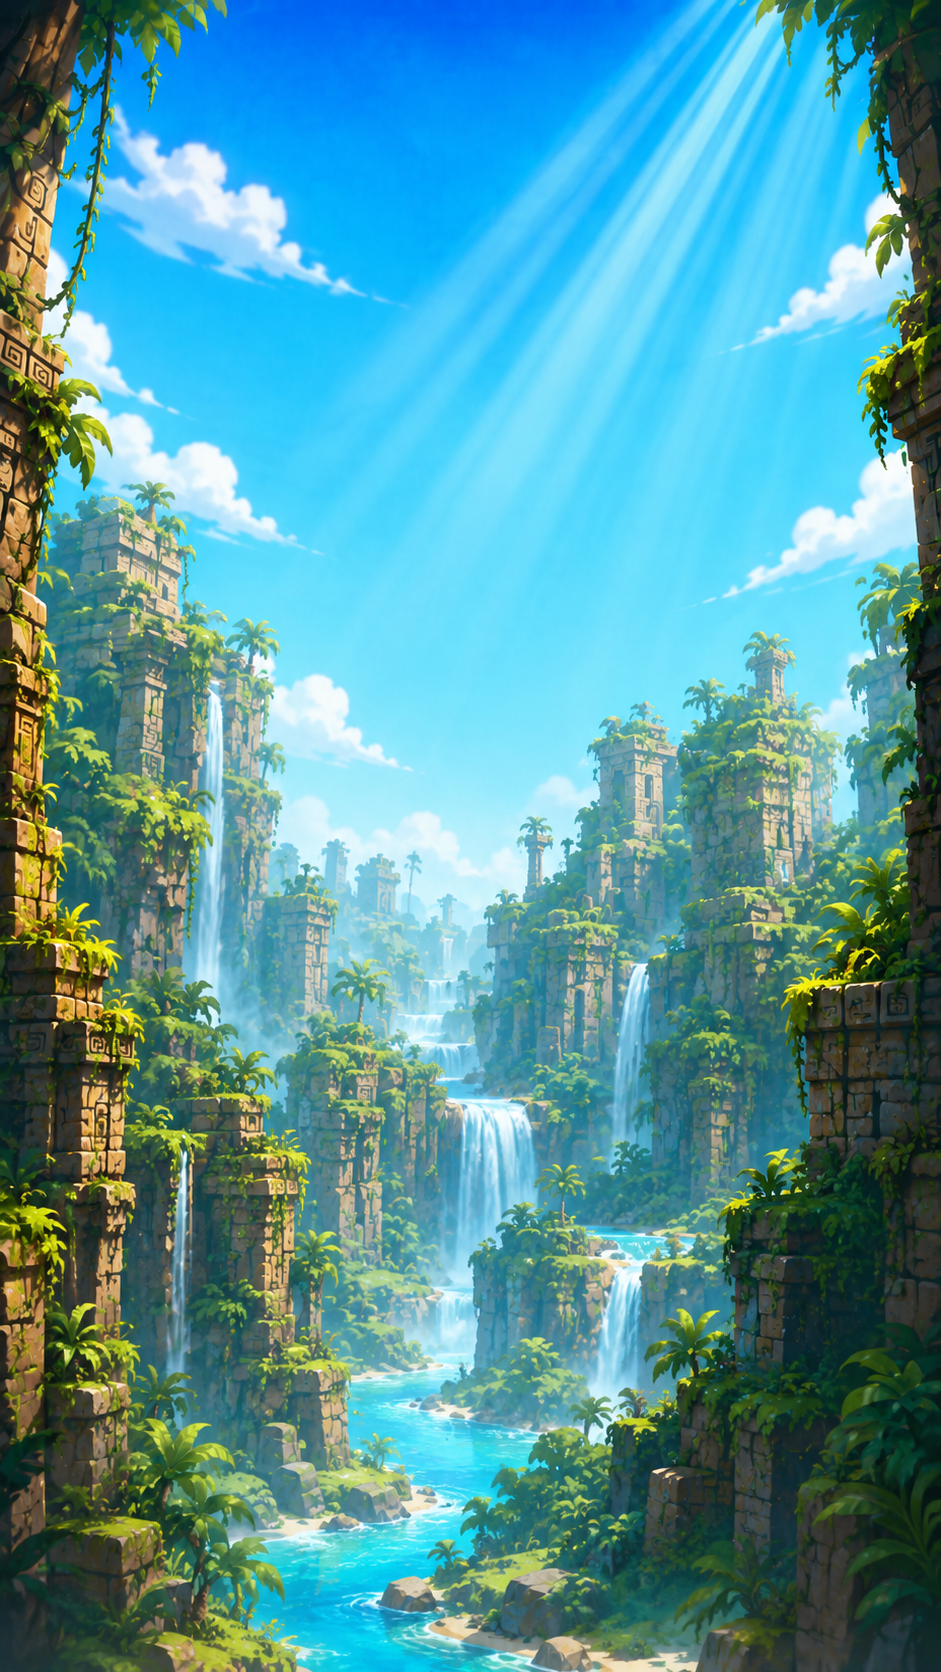
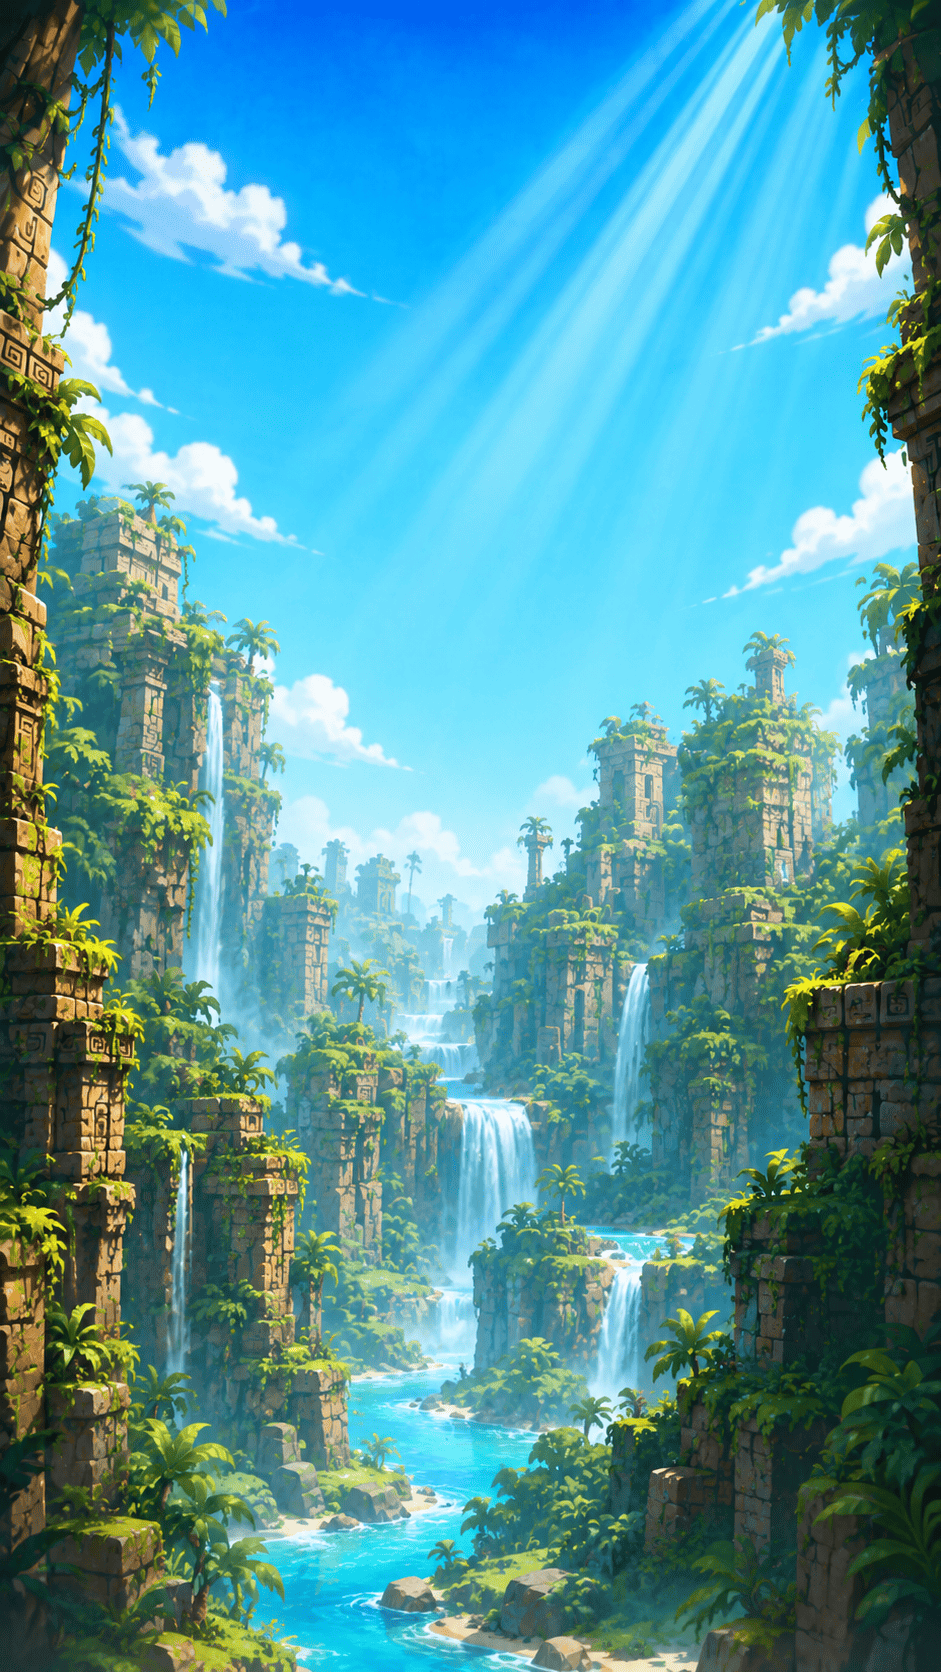
Changes

diff --git a/src/game/scenes/MenuScene.ts b/src/game/scenes/MenuScene.ts
@@ -5,14 +5,14 @@ import { JungleTheme } from '../themes/jungle.ts'
 /** Game mode passed to GameScene. Kept here too so MenuScene can type the choice. */
 export type GameMode = 'campaign' | 'endless'
 
-/** Safe horizontal inset (fraction of width) so boxes/text aren't clipped by the
- *  ENVELOP side-crop on devices taller than 9:16 (matches GameScene.SAFE_INSET_X). */
-const SAFE_INSET_X = 0.1
+/** Target button width as a fraction of screen width. Under BUTTON_WIDTH_RATIO
+ *  the buttons stay within the ENVELOP side-crop safe area on tall devices. */
+const BUTTON_WIDTH_RATIO = 0.7
 
 /**
- * MenuScene — mode-select screen reached from the title. Two tappable boxes let
- * the player choose CAMPAIGN (the 5-level story) or ENDLESS (infinite score-chase).
- * Drawn asset-free over the jungle cover; styled to match the game's cartoon look.
+ * MenuScene — mode-select screen reached from the title. Two tappable buttons let
+ * the player choose CAMPAIGN (the 5-level story) or ENDLESS (infinite score-chase),
+ * laid over the jungle cover.
  */
 export class MenuScene extends Phaser.Scene {
   private cover!: Phaser.GameObjects.Image
@@ -31,23 +31,9 @@ export class MenuScene extends Phaser.Scene {
     // Jungle cover as a cover-fit background (same look as the title).
     this.cover = this.add.image(0, 0, JungleTheme.assets.cover.key).setOrigin(0.5)
 
-    // Headline.
-    const headline = this.add
-      .text(0, 0, 'SELECT MODE', {
-        fontFamily: 'Arial Black, Arial, sans-serif',
-        fontSize: '56px',
-        color: '#ffe9a8',
-        stroke: '#3a2410',
-        strokeThickness: 10,
-        align: 'center',
-      })
-      .setOrigin(0.5)
-    // Sit the headline below the cover's "HOOK SWING" logo (clear of it).
-    this.pin(headline, 0.5, 0.52)
-
-    // Boxes in the lower open band so they don't collide with the logo/character.
-    this.makeBox(0.66, 'CAMPAIGN', () => this.startGame('campaign'))
-    this.makeBox(0.82, 'ENDLESS', () => this.startGame('endless'))
+    // Official mode buttons in the lower open band (clear of the cover's logo).
+    this.makeButton(0.66, JungleTheme.assets.campaignButton.key, () => this.startGame('campaign'))
+    this.makeButton(0.82, JungleTheme.assets.endlessButton.key, () => this.startGame('endless'))
 
     this.layout()
     this.scale.on('resize', this.layout, this)
@@ -58,52 +44,38 @@ export class MenuScene extends Phaser.Scene {
     this.cameras.main.fadeIn(250, 0, 0, 0)
   }
 
-  /** Build one cartoon mode box (rounded panel + label) centered at yFrac of the
-   *  screen height, tappable with press-bounce + idle-pulse juice. */
-  private makeBox(yFrac: number, label: string, onPick: () => void) {
-    const boxW = GAME_WIDTH * (1 - 2 * SAFE_INSET_X)
-    const boxH = GAME_HEIGHT * 0.13
-
-    const panel = this.add
-      .rectangle(0, 0, boxW, boxH, 0x06210f, 0.85)
-      .setStrokeStyle(8, 0x3a2410)
-      .setInteractive({ useHandCursor: true })
-    // Inner green accent border for the cartoon look.
-    const accent = this.add
-      .rectangle(0, 0, boxW - 18, boxH - 18)
-      .setStrokeStyle(4, 0x9be36b)
-    const text = this.add
-      .text(0, 0, label, {
-        fontFamily: 'Arial Black, Arial, sans-serif',
-        fontSize: '56px',
-        color: '#ffe9a8',
-        stroke: '#3a2410',
-        strokeThickness: 10,
-        align: 'center',
-      })
+  /** Build one official mode button (image) centered at yFrac of the screen
+   *  height, tappable with press-bounce + idle-pulse juice. */
+  private makeButton(yFrac: number, textureKey: string, onPick: () => void) {
+    const btn = this.add
+      .image(0, 0, textureKey)
       .setOrigin(0.5)
+      .setInteractive({ useHandCursor: true })
 
-    this.pin(panel, 0.5, yFrac)
-    this.pin(accent, 0.5, yFrac)
-    this.pin(text, 0.5, yFrac)
+    // Scale to a fixed fraction of width (aspect preserved). Store as base scale
+    // so the idle/press tweens are relative to it (set in layout()).
+    const baseScale = (GAME_WIDTH * BUTTON_WIDTH_RATIO) / btn.width
+    btn.setScale(baseScale)
+    this.pin(btn, 0.5, yFrac)
 
-    // Gentle idle pulse on the whole box to draw the eye.
+    // Gentle idle pulse to draw the eye.
     this.tweens.add({
-      targets: [panel, accent, text],
-      scale: { from: 1, to: 1.03 },
+      targets: btn,
+      scale: { from: baseScale, to: baseScale * 1.04 },
       duration: 800,
       ease: 'Sine.easeInOut',
       yoyo: true,
       repeat: -1,
     })
 
-    panel.on('pointerdown', () => {
+    btn.on('pointerdown', () => {
       if (this.locked) return
       this.locked = true
+      this.tweens.killTweensOf(btn) // stop the idle pulse so it doesn't fight the press
       // Press-down feedback, then transition.
       this.tweens.add({
-        targets: [panel, accent, text],
-        scale: 0.94,
+        targets: btn,
+        scale: baseScale * 0.92,
         duration: 90,
         yoyo: true,
         ease: 'Quad.easeOut',

diff --git a/src/game/scenes/GameScene.ts b/src/game/scenes/GameScene.ts
@@ -223,10 +223,11 @@ export class GameScene extends Phaser.Scene {
   private bananasCollected = 0
   /** Total bananas spawned this run (denominator for the perfect-collect check). */
   private bananasTotal = 0
-  /** Live HUD: score (top-center) and combo multiplier (below it, hidden at 1x).
-   *  The level indicator is a static label set once in createHud(). */
+  /** Live HUD: score (top-center), combo multiplier (below it, hidden at 1x), and
+   *  the top-left corner label (LEVEL n / BEST n). */
   private scoreText!: Phaser.GameObjects.Text
   private comboText!: Phaser.GameObjects.Text
+  private cornerText!: Phaser.GameObjects.Text
 
   /** Campaign progression, backed by the cloud-save `progress` object so it both
    *  survives scene.restart() AND persists across sessions via YouTube cloud save
@@ -521,6 +522,9 @@ export class GameScene extends Phaser.Scene {
    *  last level it's a campaign-complete screen with PLAY AGAIN. */
   private showWinOverlay() {
     this.won = true
+    // Hide the live HUD so the score/combo/level don't bleed through the overlay
+    // (the result is shown cleanly on the win screen instead).
+    this.hideHud()
 
     // Commit the running campaign total to the persistent best before showing it.
     this.commitBestScore()
@@ -670,6 +674,9 @@ export class GameScene extends Phaser.Scene {
     this.vx = 0
     this.vy = 0
     this.rope.setVisible(false)
+    // Hide the live HUD so the score/combo/best don't bleed through the overlay
+    // (the result is shown cleanly on the game-over screen instead).
+    this.hideHud()
 
     // Commit best + push to YouTube + persist (best is the shared high score).
     progress.best = Math.max(this.score, progress.best)
@@ -724,26 +731,15 @@ export class GameScene extends Phaser.Scene {
       .setScrollFactor(0)
       .setDepth(101)
 
-    // RETRY — reuse the play-button art; restarts a fresh endless run.
+    // RETRY — the dedicated retry-button art; restarts a fresh endless run.
     const retry = this.add
-      .image(GAME_WIDTH / 2, GAME_HEIGHT * 0.57, JungleTheme.assets.playButton.key)
+      .image(GAME_WIDTH / 2, GAME_HEIGHT * 0.57, JungleTheme.assets.retryButton.key)
       .setScrollFactor(0)
       .setDepth(101)
       .setInteractive({ useHandCursor: true })
     const retryScale = (GAME_WIDTH * 0.62) / retry.width
     retry.setScale(retryScale)
     retry.on('pointerdown', this.restartScene, this)
-    const retryLabel = this.add
-      .text(GAME_WIDTH / 2, GAME_HEIGHT * 0.57, 'RETRY', {
-        fontFamily: 'Arial Black, Arial, sans-serif',
-        fontSize: '40px',
-        color: '#ffffff',
-        stroke: '#3a2410',
-        strokeThickness: 6,
-      })
-      .setOrigin(0.5)
-      .setScrollFactor(0)
-      .setDepth(102)
 
     // MENU — back to mode select. A bordered text button (no art needed).
     const menuBtn = this.add
@@ -761,10 +757,10 @@ export class GameScene extends Phaser.Scene {
       .setInteractive({ useHandCursor: true })
     menuBtn.on('pointerdown', this.toMenu, this)
 
-    this.winOverlay = [dim, title, scoreLine, bestLine, retry, retryLabel, menuBtn]
+    this.winOverlay = [dim, title, scoreLine, bestLine, retry, menuBtn]
 
     // Pop-in juice (everything but the dim fades in).
-    const popIn = [title, scoreLine, bestLine, retry, retryLabel, menuBtn]
+    const popIn = [title, scoreLine, bestLine, retry, menuBtn]
     for (const obj of popIn) obj.setAlpha(0)
     this.tweens.add({
       targets: popIn,
@@ -1090,7 +1086,7 @@ export class GameScene extends Phaser.Scene {
     // to chase. Vertically centered with the score line so they read as one row.
     const cornerLabel =
       this.mode === 'endless' ? `BEST ${progress.best}` : `LEVEL ${GameScene.currentLevel + 1}`
-    this.add
+    this.cornerText = this.add
       .text(GAME_WIDTH * SAFE_INSET_X, hudTopY + GAME_HEIGHT * 0.012, cornerLabel, {
         fontFamily: 'Arial Black, Arial, sans-serif',
         fontSize: '34px',
@@ -1101,6 +1097,14 @@ export class GameScene extends Phaser.Scene {
       .setOrigin(0, 0)
       .setScrollFactor(0)
       .setDepth(50)
+  }
+
+  /** Hide the live HUD (score, combo, corner) — used when the game-over overlay
+   *  takes over so the live readouts don't bleed through behind it. */
+  private hideHud() {
+    this.scoreText.setVisible(false)
+    this.comboText.setVisible(false)
+    this.cornerText.setVisible(false)
   }
 
   // --- Tutorial ------------------------------------------------------------

diff --git a/src/game/scenes/BootScene.ts b/src/game/scenes/BootScene.ts
@@ -33,6 +33,9 @@ export class BootScene extends Phaser.Scene {
     } = JungleTheme.assets
     this.load.image(cover.key, cover.path)
     this.load.image(playButton.key, playButton.path)
+    this.load.image(JungleTheme.assets.retryButton.key, JungleTheme.assets.retryButton.path)
+    this.load.image(JungleTheme.assets.campaignButton.key, JungleTheme.assets.campaignButton.path)
+    this.load.image(JungleTheme.assets.endlessButton.key, JungleTheme.assets.endlessButton.path)
 
     // Sound effects.
     this.load.audio(JungleTheme.assets.jumpSound.key, JungleTheme.assets.jumpSound.path)

diff --git a/src/game/themes/jungle.ts b/src/game/themes/jungle.ts
@@ -10,6 +10,9 @@ export const JungleTheme = {
   assets: {
     cover: { key: 'cover', path: 'game_ui/cover.png' },
     playButton: { key: 'play_button', path: 'game_ui/play_button.png' },
+    retryButton: { key: 'retry_button', path: 'game_ui/retry_button.png' },
+    campaignButton: { key: 'campaign_button', path: 'game_ui/campaign_button.png' },
+    endlessButton: { key: 'endless_button', path: 'game_ui/endless_button.png' },
     // SFX played when the character launches off the starting platform.
     jumpSound: { key: 'jump_sound', path: 'sound_effects/jump_sound.ogg' },
     // SFX played when the character releases the rope to fly off a hook. Several